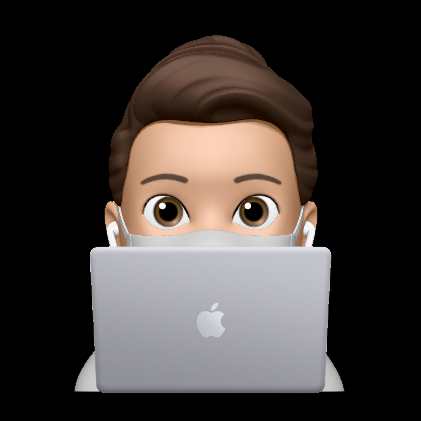
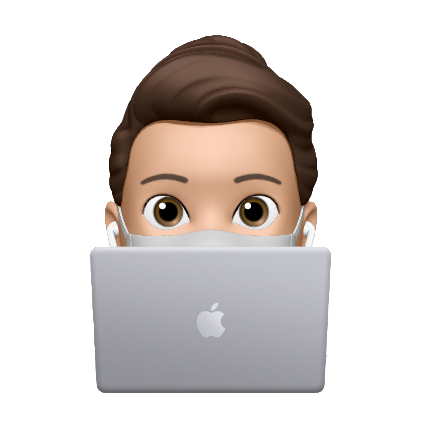
Added an image

diff --git a/pages/index.js b/pages/index.js
@@ -1,4 +1,4 @@
-import { Container, Box, Heading } from "@chakra-ui/react";
+import { Container, Box, Heading, Image } from "@chakra-ui/react";
 const Page = () => {
     return (
         <Container>
@@ -13,6 +13,21 @@ const Page = () => {
                     </Heading>
                     <p>Programmer (Game Development, Software Development)</p>
                 </Box>
+                <Box
+                    flexShrink={0}
+                    mt={{ base: 4, md: 0 }}
+                    ml={{ md: 6 }}
+                    textAlign="center"
+                >
+                <Image
+                    borderStyle="solid"
+                    maxWidth="100px"
+                    display="inline-block"
+                    borderRadius="full"
+                    src="/images/harry.PNG"
+                    alt="Profile image"
+                />
+            </Box>
             </Box>
         </Container>
     )
